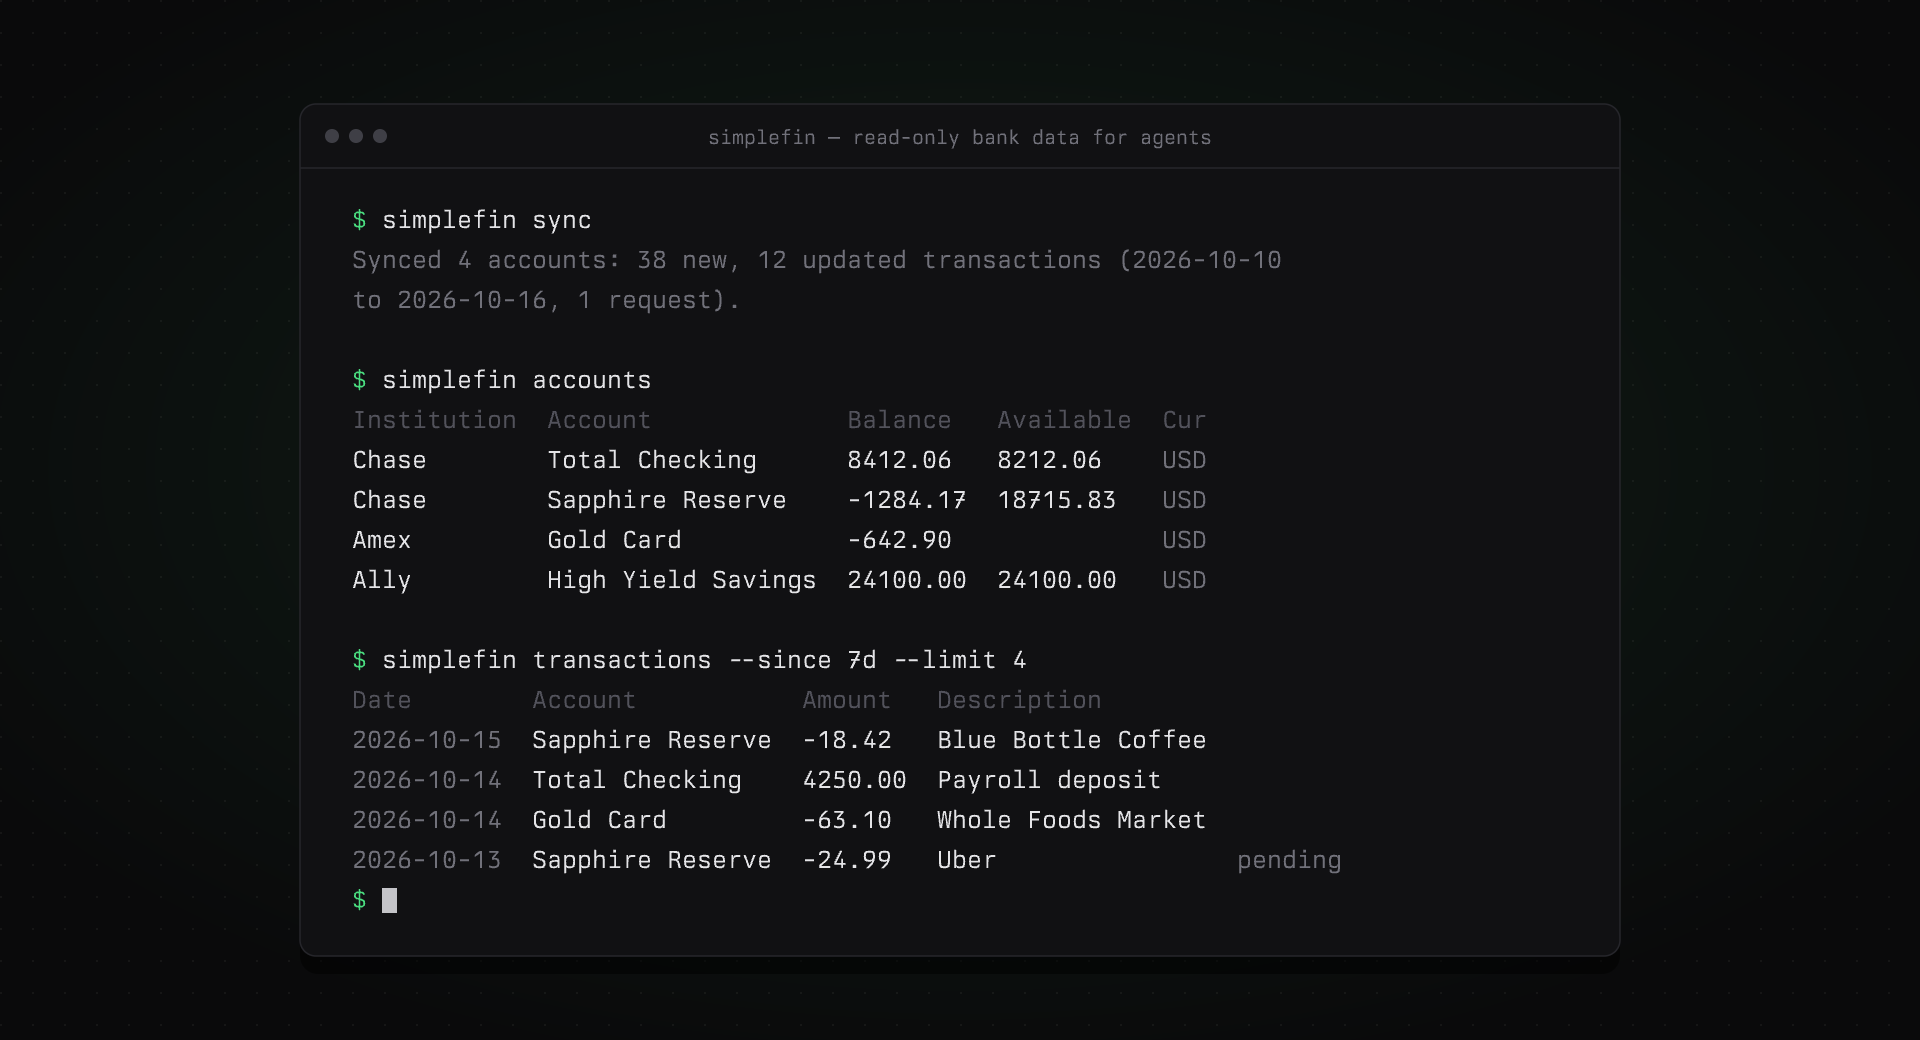
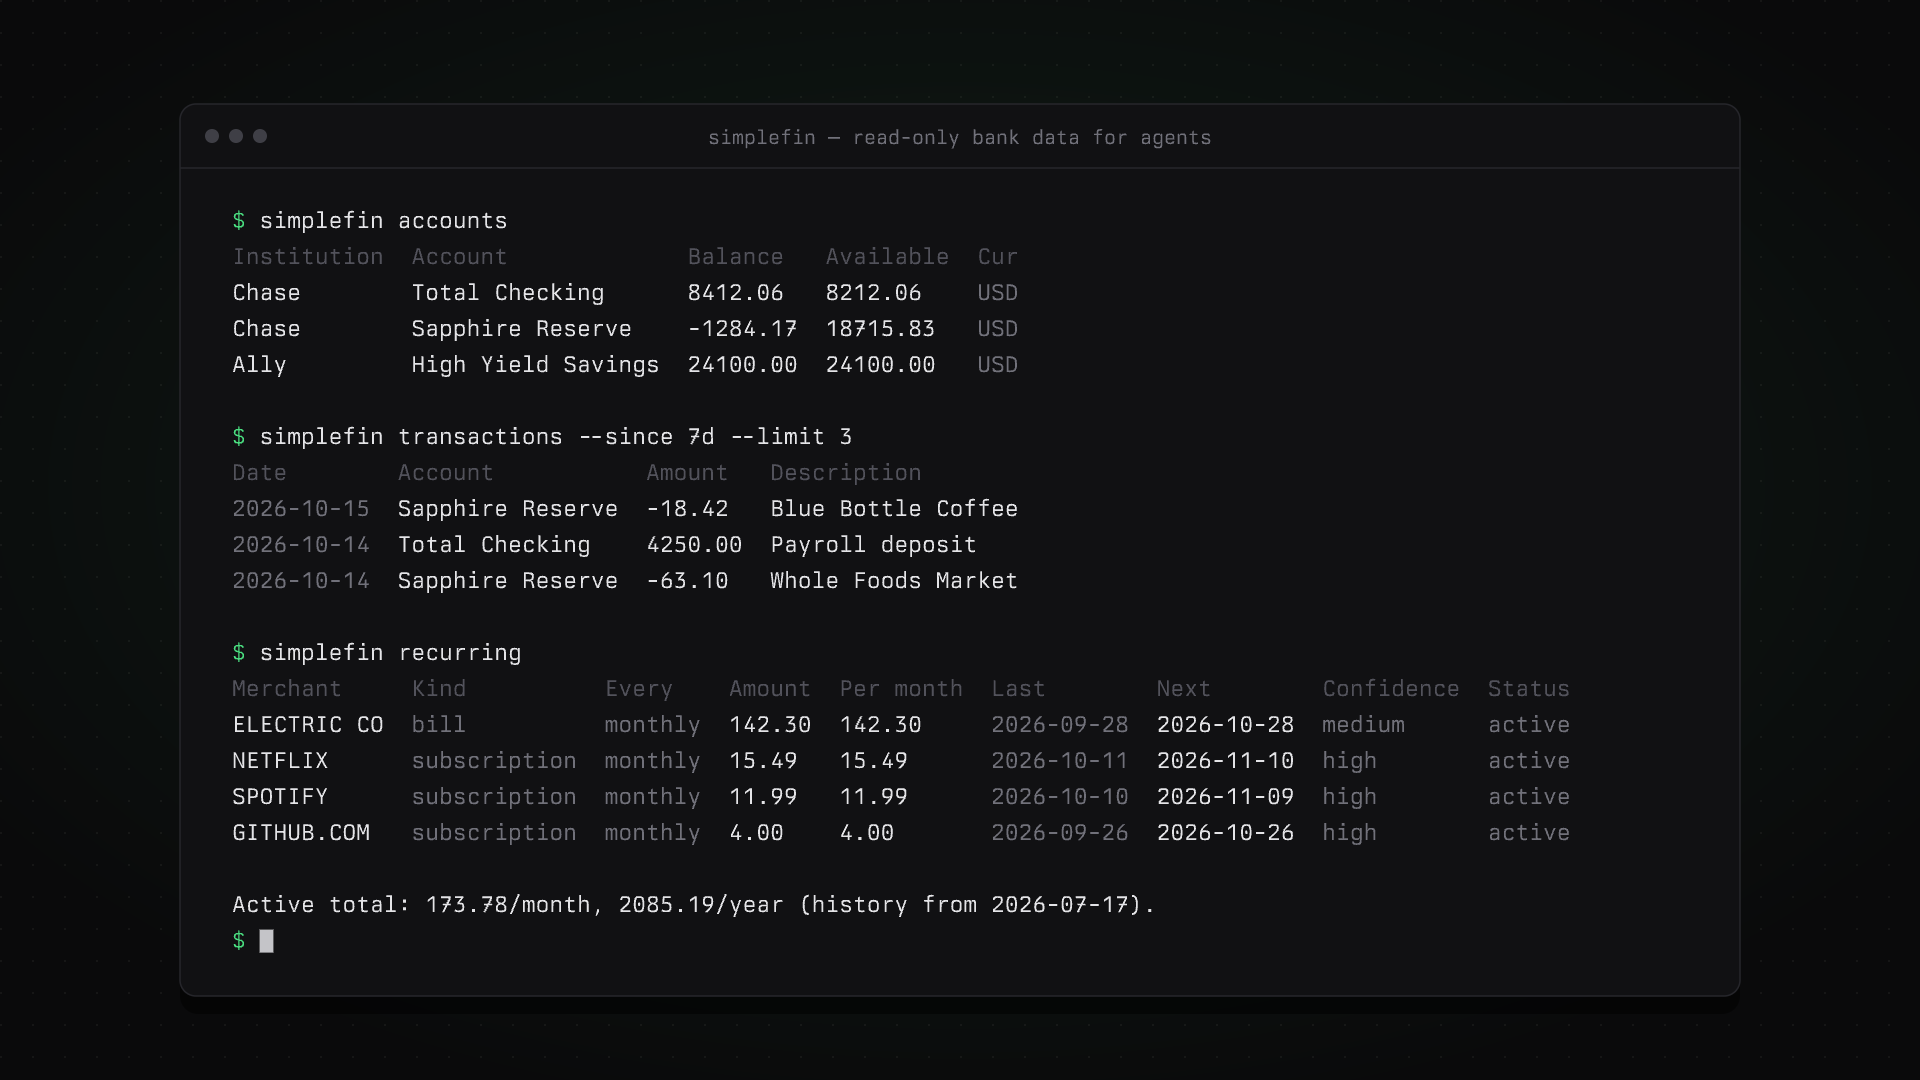
Show recurring-charge detection in the README hero image
Replaces the sync block with 'simplefin recurring' output (made-up demo
data, real column layout and cost math: yearly total computed with the
detector's own rounding). Widened the terminal panel to fit the
nine-column table and moved to 1920x1080.

diff --git a/README.md b/README.md
@@ -1,6 +1,6 @@
 # simplefin-cli
 
-![simplefin CLI showing synced accounts and transactions](assets/hero.png)
+![simplefin CLI showing accounts, transactions and recurring charges](assets/hero.png)
 
 Read-only access to your bank, card and loan accounts through [SimpleFIN Bridge](https://bridge.simplefin.org), as a CLI and an MCP server for agents.
 
